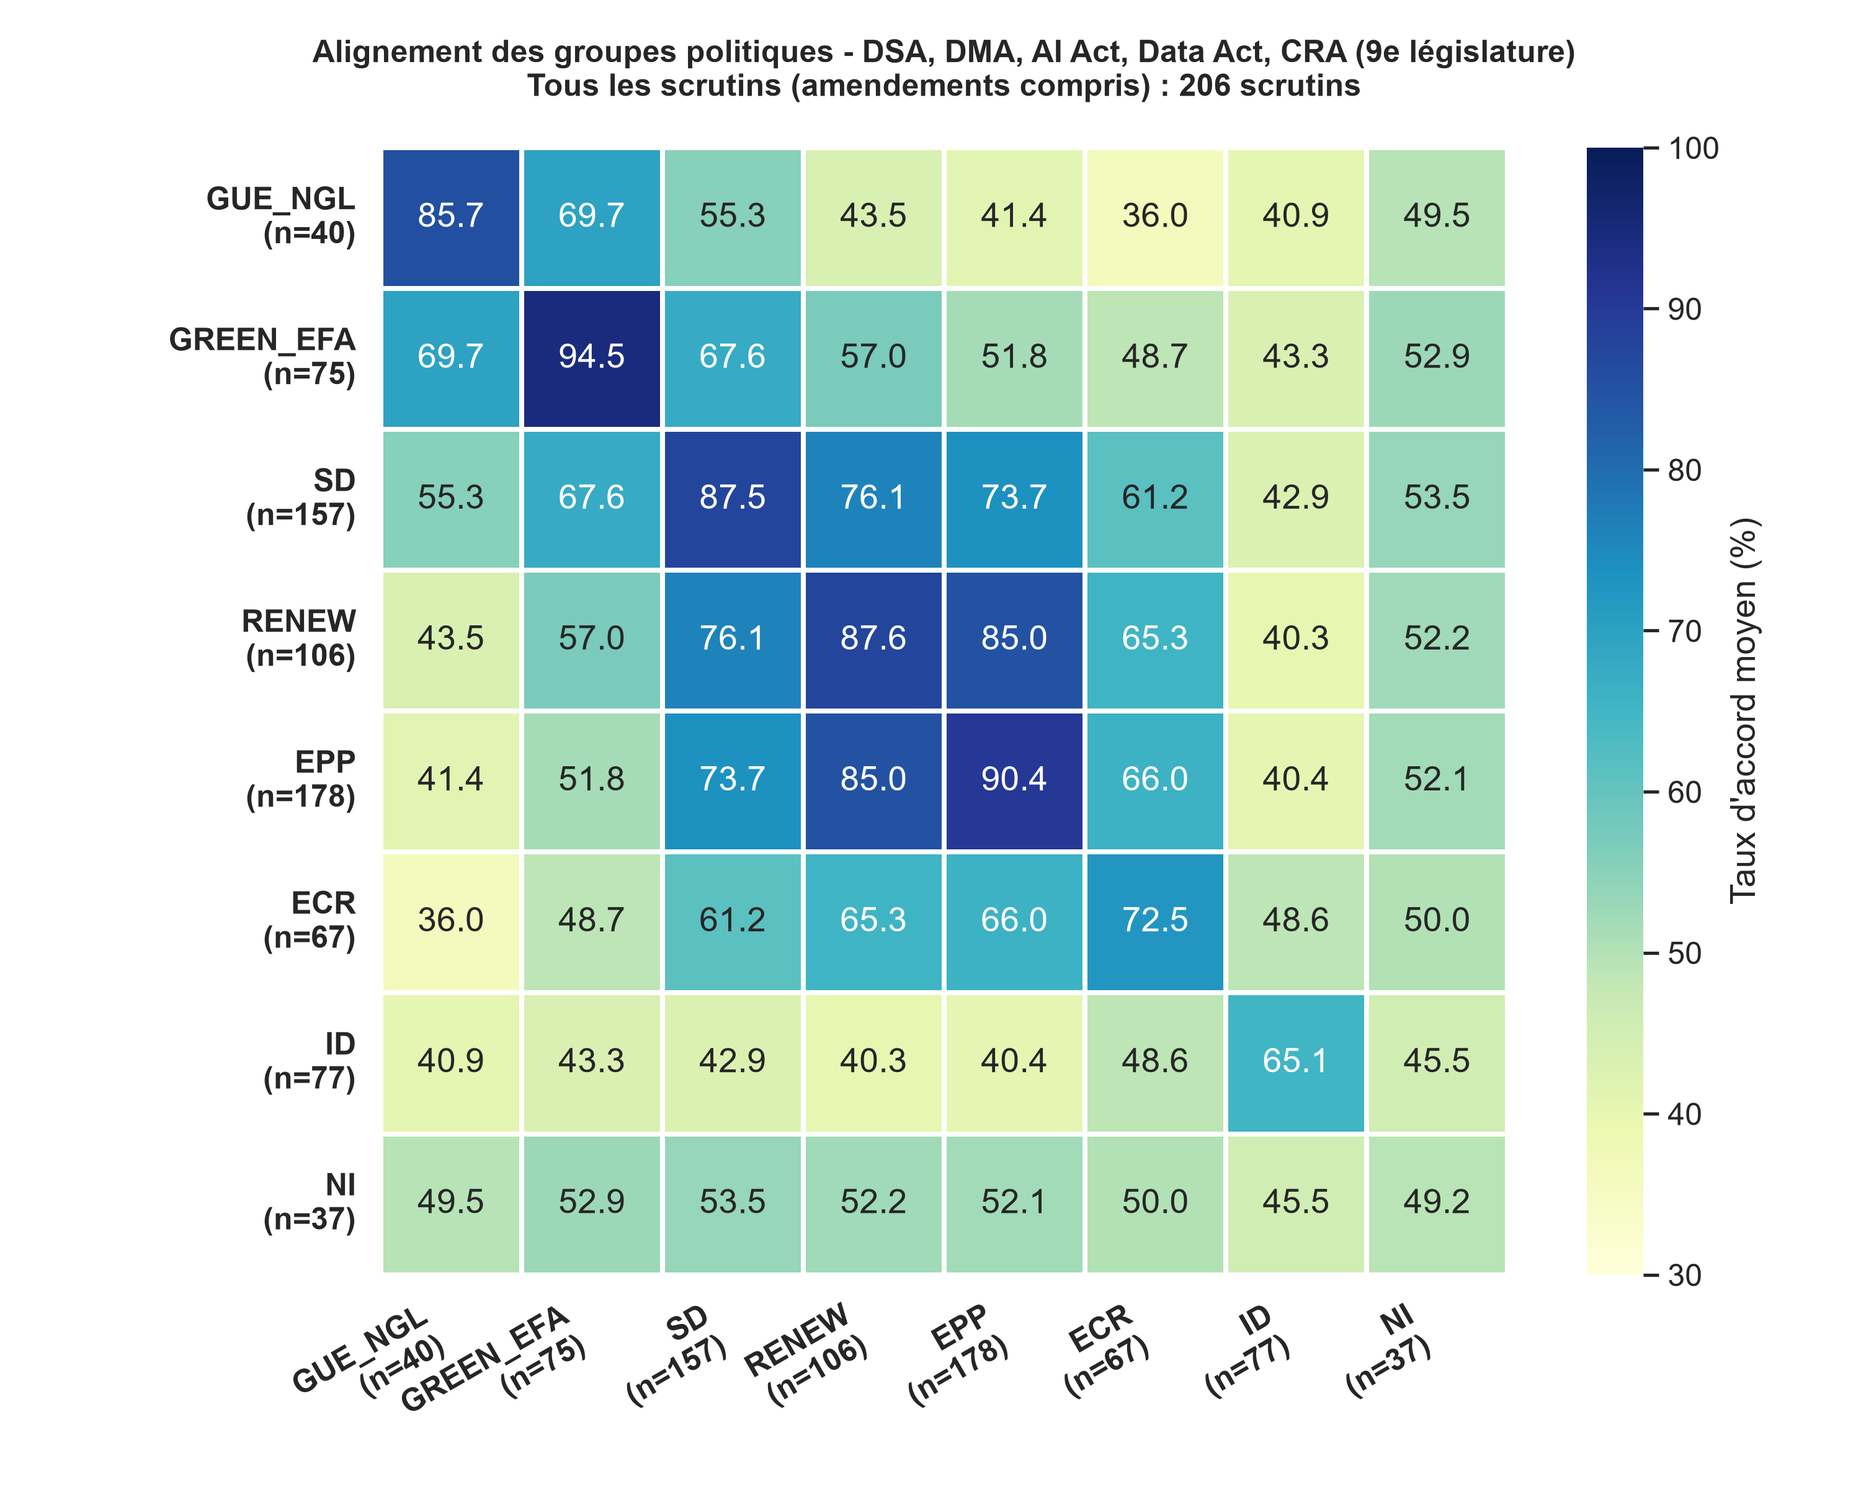
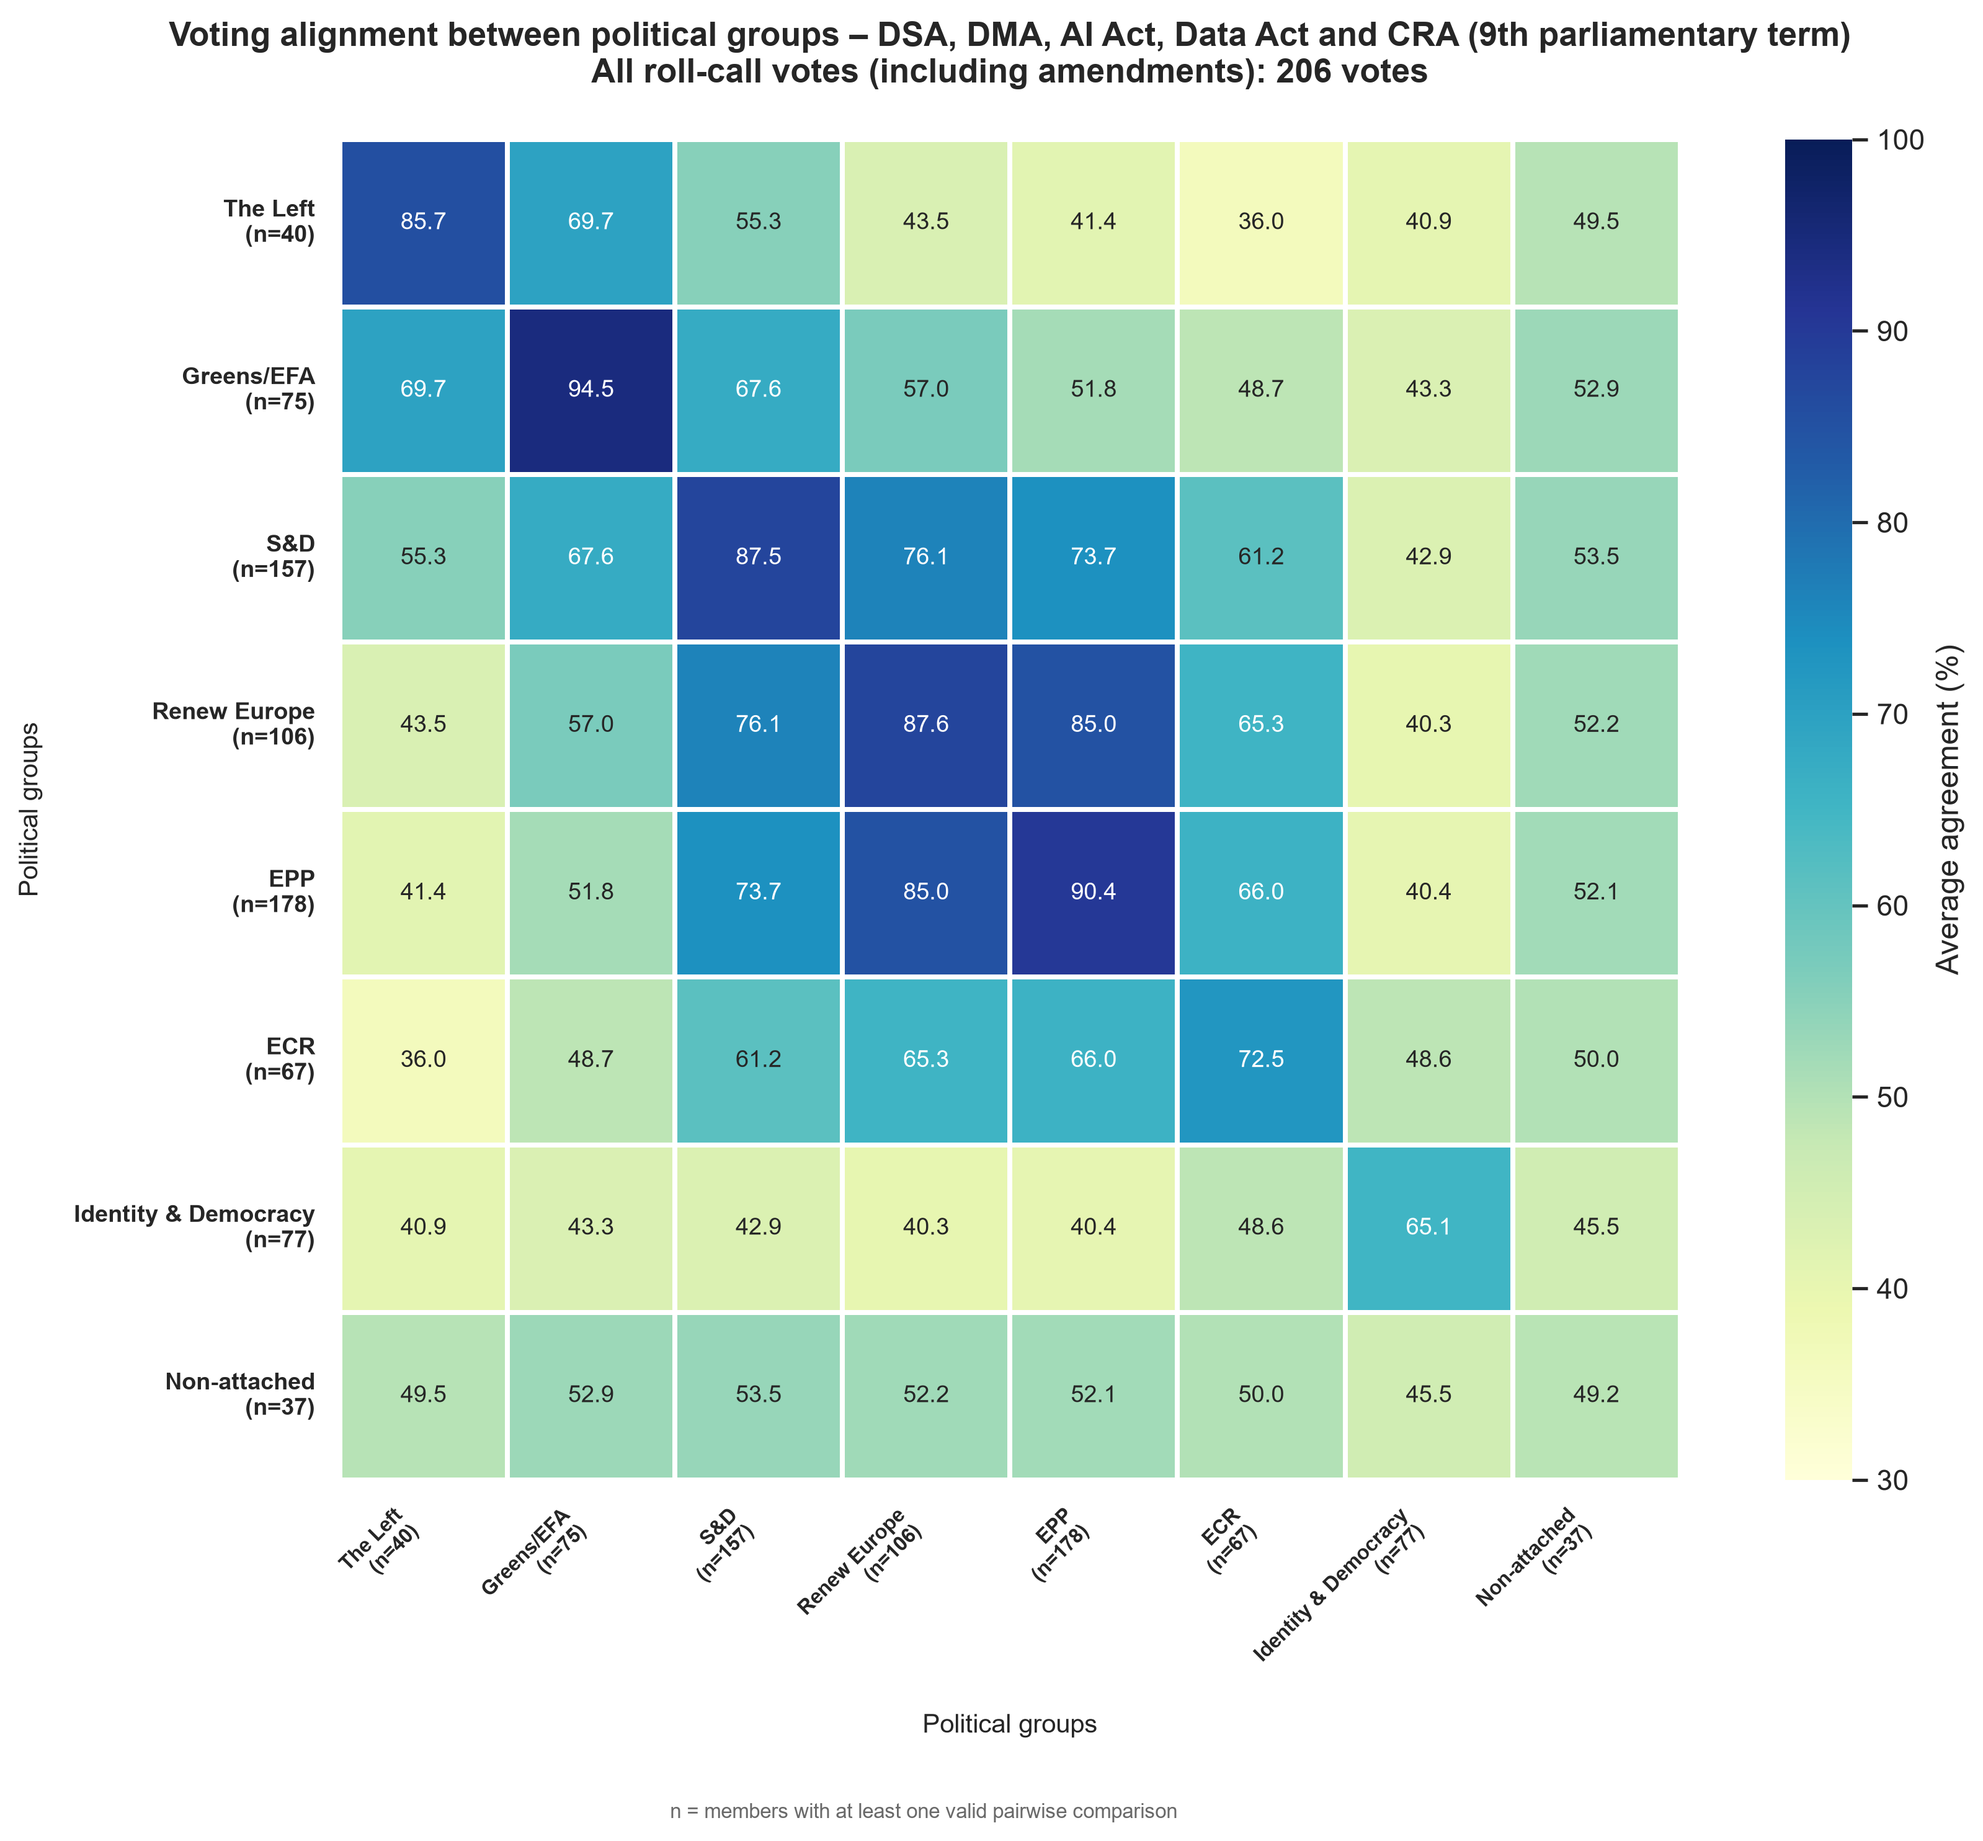
Modification of heatmap legends and group names

diff --git a/src/03_group_heatmap.py b/src/03_group_heatmap.py
@@ -39,6 +39,8 @@ n_votes = {
 
 # Ordre gauche -> droite ; les codes non listés sont ajoutés à la fin
 political_order = ["GUE_NGL", "GREEN_EFA", "SD", "RENEW", "EPP", "ECR", "ID", "NI"]
+# English labels for political groups
+group_labels = { "GUE_NGL": "The Left", "GREEN_EFA": "Greens/EFA", "SD": "S&D", "RENEW": "Renew Europe", "EPP": "EPP", "ECR": "ECR", "ID": "Identity & Democracy", "NI": "Non-attached" }
 present = set(member_to_group.unique())
 groups = [g for g in political_order if g in present]
 groups += sorted(present - set(groups))
@@ -86,39 +88,104 @@ global_min = min(np.nanmin(gm.to_numpy()) for gm, _ in results.values())
 VMIN = float(np.floor(global_min / 5) * 5)
 VMAX = 100.0
 
+
 # =============================================================================
 # 3. HEATMAPS
 # =============================================================================
-sns.set_theme(style="white", font_scale=1.1)
+sns.set_theme(style="white", font_scale=1.0)
 os.makedirs("outputs", exist_ok=True)
 
 titles = {
-    "all": "Tous les scrutins (amendements compris)",
-    "main": "Votes principaux uniquement",
+    "all": "All roll-call votes (including amendments)",
+    "main": "Main votes only",
 }
 
 
 def plot_heatmap(name, gm, n_eff):
-    labels = [f"{g}\n(n={n_eff[g]})" for g in gm.index]
-    plt.figure(figsize=(10, 8), dpi=300)
-    ax = sns.heatmap(
-        gm, annot=True, fmt=".1f", cmap="YlGnBu", vmin=VMIN, vmax=VMAX,
-        cbar_kws={"label": "Taux d'accord moyen (%)"},
-        linewidths=1.5, linecolor="white", square=True,
-        xticklabels=labels, yticklabels=labels,
+
+    # Replace technical group codes with readable English labels
+    labels = [
+        f"{group_labels.get(g, g)}\n(n={n_eff[g]})"
+        for g in gm.index
+    ]
+
+    # Larger figure to prevent label overlap
+    fig, ax = plt.subplots(figsize=(13, 10), dpi=300)
+
+    sns.heatmap(
+        gm,
+        annot=True,
+        fmt=".1f",
+        cmap="YlGnBu",
+        vmin=VMIN,
+        vmax=VMAX,
+        cbar_kws={"label": "Average agreement (%)"},
+        linewidths=1.5,
+        linecolor="white",
+        square=True,
+        xticklabels=labels,
+        yticklabels=labels,
+        ax=ax,
+        annot_kws={"size": 9}
     )
+
     ax.set_title(
-        "Alignement des groupes politiques - DSA, DMA, AI Act, Data Act, CRA "
-        f"(9e législature)\n{titles[name]} : {n_votes[name]} scrutins",
-        fontsize=12, fontweight="bold", pad=20,
+        "Voting alignment between political groups – "
+        "DSA, DMA, AI Act, Data Act and CRA "
+        "(9th parliamentary term)\n"
+        f"{titles[name]}: {n_votes[name]} votes",
+        fontsize=13,
+        fontweight="bold",
+        pad=22
     )
-    plt.xticks(rotation=30, ha="right", fontweight="bold")
-    plt.yticks(rotation=0, fontweight="bold")
-    plt.tight_layout()
-    plt.savefig(f"outputs/coalitions_heatmap_{name}.png", dpi=300)
+
+    # Improve axis label readability
+    ax.set_xticklabels(
+        labels,
+        rotation=45,
+        ha="right",
+        fontsize=8,
+        fontweight="bold"
+    )
+
+    ax.set_yticklabels(
+        labels,
+        rotation=0,
+        fontsize=9,
+        fontweight="bold"
+    )
+
+    ax.set_xlabel("Political groups", fontsize=10, labelpad=12)
+    ax.set_ylabel("Political groups", fontsize=10, labelpad=12)
+
+    # Explain the number of members displayed in the labels
+    fig.text(
+        0.5, 0.015,
+        "n = members with at least one valid pairwise comparison",
+        ha="center",
+        fontsize=8,
+        color="dimgray"
+    )
+
+    plt.tight_layout(rect=[0, 0.04, 1, 1])
+
+    plt.savefig(
+        f"outputs/coalitions_heatmap_{name}.png",
+        dpi=300,
+        bbox_inches="tight"
+    )
+
     plt.close()
-    gm.round(2).to_csv(f"outputs/group_agreement_{name}.csv")
-    print(f"-> outputs/coalitions_heatmap_{name}.png et group_agreement_{name}.csv")
+
+    # Keep CSV group codes unchanged for reproducibility
+    gm.round(2).to_csv(
+        f"outputs/group_agreement_{name}.csv"
+    )
+
+    print(
+        f"-> outputs/coalitions_heatmap_{name}.png "
+        f"and group_agreement_{name}.csv"
+    )
 
 
 for name, (gm, n_eff) in results.items():
